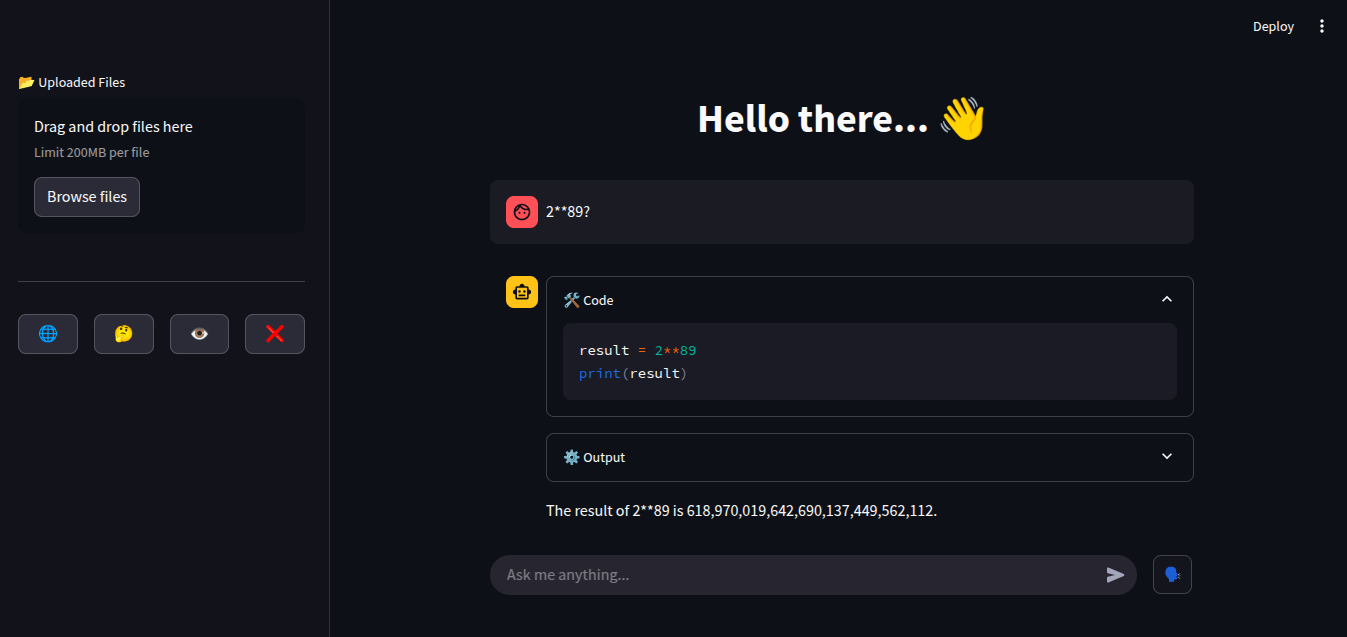
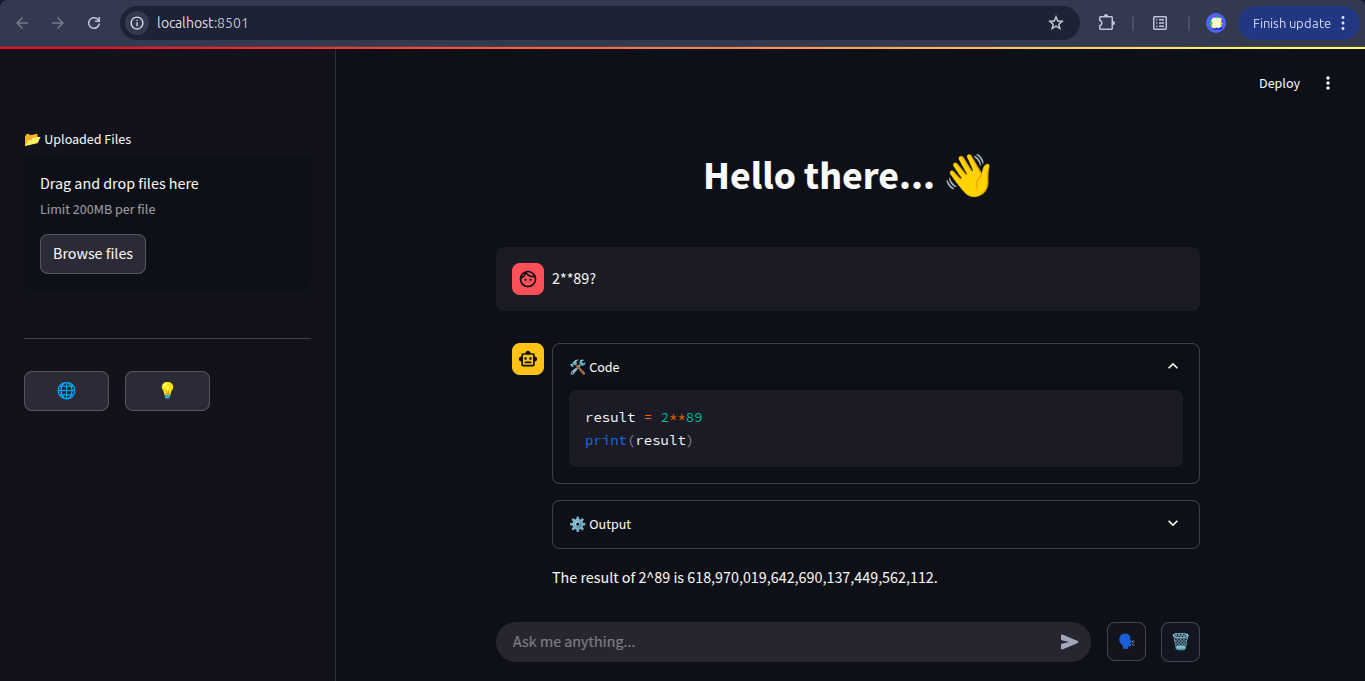
Add configurable system prompt and base tools

diff --git a/src/app.py b/src/app.py
@@ -3,11 +3,12 @@
 from llama_index.core.agent.workflow import ToolCallResult, AgentStream
 from llama_index.core.workflow import Context
 
-from multimodal import stt
 from demo_agent import DemoAgent
+from multimodal import stt
 
 from streamlit_mic_recorder import mic_recorder
 import streamlit as st
+
 import tempfile
 import asyncio
 import time
@@ -34,7 +35,7 @@ section[data-testid="stSidebar"] {
   text-align: center;
   font-size: 2.5em;
   font-weight: bold;
-  margin-bottom: 30px;
+  margin-bottom: 40px;
 }
 /* Fix chat container to properly display messages in correct order */
 [data-testid="stChatMessageContent"] {
@@ -97,7 +98,7 @@ with st.sidebar:
     # Action buttons below chat input
     with st.container():
         st.divider()
-        col1, col2, col3, col4 = st.columns(4)
+        col1, col2, col3 = st.columns(3)
 
         with col1:
             if st.button("🌐", help="Web-search mode", use_container_width=True):
@@ -106,23 +107,6 @@ with st.sidebar:
         with col2:
             if st.button("💡", help="Reasoning mode", use_container_width=True):
                 st.warning("WIP")
-
-        with col3:
-            if st.button("🔍", help="Vision mode", use_container_width=True):
-                st.warning("WIP")
-
-        with col4:
-            if st.session_state.get("messages"):
-                if st.button("🗑", help="Restart chat", use_container_width=True):
-                    # Generate a new unique key for the voice recorder widget and store it temporarily 
-                    st.session_state.voice_input_key += 1
-                    value_to_keep = st.session_state.get("voice_input_key") 
-
-                    # Clear everything in state memory, but restore important keys
-                    st.session_state.clear()
-                    if value_to_keep is not None: st.session_state["voice_input_key"] = value_to_keep
-
-                    st.rerun()
 
 # Display chat messages from session state in the chat container
 with chat_container:
@@ -145,7 +129,7 @@ with chat_container:
 
 # Put the input elements at the bottom
 with input_container:
-    col1, col2 = st.columns([93, 7])
+    col1, col2, col3 = st.columns([86, 7, 7])
     with col1:
         # Chat bar
         query = st.chat_input("Ask me anything...")
@@ -156,9 +140,21 @@ with input_container:
             start_prompt="🗣",
             stop_prompt="⏹",
             just_once=True,
-            use_container_width=False,
+            use_container_width=True,
             key=f"voice_input_{st.session_state.voice_input_key}"
         )
+    with col3:
+        if st.session_state.get("messages"):
+            if st.button("🗑", help="Restart chat", use_container_width=True):
+                # Generate a new unique key for the voice recorder widget and store it temporarily 
+                st.session_state.voice_input_key += 1
+                value_to_keep = st.session_state.get("voice_input_key") 
+
+                # Clear everything in state memory, but restore important keys
+                st.session_state.clear()
+                if value_to_keep is not None: st.session_state["voice_input_key"] = value_to_keep
+
+                st.rerun()
 
 # Process audio input if present
 if audio_data:

diff --git a/src/base_tools.py b/src/base_tools.py
@@ -1,0 +1,97 @@
+# base_tools.py
+
+from groq import Groq as GroqClient
+
+from dotenv import load_dotenv
+import os
+
+from pathlib import Path
+import mimetypes
+import base64
+
+load_dotenv()
+API_KEY = os.getenv("API_KEY")
+STT = os.getenv("STT")
+VLM = os.getenv("VLM")
+
+
+def transcribe_audio(path_to_audio: str) -> str:
+    """
+    Converts speech from an audio file into text.
+    Args:
+        path_to_audio (str): The path to the audio file to be transcribed.
+    Returns:
+        json: The transcribed text content of the audio file in JSON.
+    """
+    
+    # Validate path
+    path = Path(path_to_audio).expanduser().resolve()
+    if not path.is_file():
+        raise FileNotFoundError(f"No such audio file: {path}")
+
+    # Initialize the Groq client
+    client = GroqClient(api_key=API_KEY) 
+    
+    # Open the audio file
+    with open(path_to_audio, "rb") as audio_file:
+        # Create a transcription of the audio file
+        transcription = client.audio.transcriptions.create(
+            file=audio_file,
+            model=STT,
+            response_format="json",
+            temperature=0.1
+        )
+
+    return transcription
+
+def analyze_image(path_to_image: str, question: str) -> str:
+    """
+    Analyzes an image and generates a response to a given question based on the image's content.
+    
+    Args:
+        path_to_image (str): The path to the image file to be analyzed.
+        question (str): The question to be answered, based on the contents of the image.
+        
+    Returns:
+        str: The response from a VLM, typically a textual analysis or description based on the image.
+    """
+
+    # Validate path
+    path = Path(path_to_image).expanduser().resolve()
+    if not path.is_file():
+        raise FileNotFoundError(f"No such image file: {path}")
+
+    def encode_image(image_path):
+        with open(image_path, "rb") as image_file:
+            return base64.b64encode(image_file.read()).decode('utf-8')
+    
+    # Get the MIME type (e.g., image/png, image/jpeg)
+    mime_type, _ = mimetypes.guess_type(path_to_image)
+    if mime_type is None:
+        raise ValueError("Unsupported file type. Please provide a valid image.")
+
+    base64_image = encode_image(path_to_image)
+
+    # Initialize the Groq client
+    client = GroqClient(api_key=API_KEY)
+    
+    chat_completion = client.chat.completions.create(
+        messages=[
+            {
+                "role": "user",
+                "content": [
+                    {"type": "text", "text": question},
+                    {
+                        "type": "image_url",
+                        "image_url": {
+                            "url": f"data:{mime_type};base64,{base64_image}",
+                        },
+                    },
+                ],
+            }
+        ],
+        model=VLM,
+    )
+    
+    analysis = chat_completion.choices[0].message.content
+    return analysis.strip()

diff --git a/src/demo_agent.py b/src/demo_agent.py
@@ -1,7 +1,9 @@
-# demo_agents.py
+# demo_agent.py
 
 from llama_index.core.agent.workflow import CodeActAgent
 from llama_index.llms.groq import Groq as LlamaGroq
+
+from base_tools import transcribe_audio, analyze_image
 from code_executor import SimpleCodeExecutor
 
 import matplotlib.pyplot as plt
@@ -11,24 +13,31 @@ import datetime
 import re
 
 from dotenv import load_dotenv
+from pathlib import Path
 import os
 
 load_dotenv()
-ROOT_MODEL = os.getenv("ROOT_MODEL")
+SYSTEM_PROMPT_KEY = os.getenv("SYSTEM_PROMPT_KEY")
 API_KEY = os.getenv("API_KEY")
+LLM = os.getenv("LLM")
 
+# LLM
 llm = LlamaGroq(
-    model=ROOT_MODEL,
     api_key=API_KEY,
+    model=LLM,
+    presence_penalty=0.5,
     temperature=0.25,
     top_p=0.9,
-    min_p=0,
     top_k=20,
-    presence_penalty=0.5
+    min_p=0,
     )
-  
+
+# Code executor
 code_executor = SimpleCodeExecutor(
-    locals={},
+    locals={
+    "transcribe_audio": transcribe_audio,
+    "analyze_image": analyze_image
+    },
     globals={
     "__builtins__": __builtins__,
     "datetime": __import__("datetime"),
@@ -39,18 +48,23 @@ code_executor = SimpleCodeExecutor(
     },
     )
 
+# System prompt
+current_dir = Path(__file__).parent
+file_path = current_dir.parent / "prompts" / (SYSTEM_PROMPT_KEY+".txt")
+
+with open(file_path, "r") as file: content = file.read()
+system_prompt = eval(f"f'''{content}'''")
+
+## Agent Workflow ##
 class DemoAgent():
     def __init__(self):
         self._agent = CodeActAgent(
             llm=llm,
-            code_execute_fn=code_executor.execute
-            #fn=...
+            code_execute_fn=code_executor.execute,
+            tools=[transcribe_audio, analyze_image]
             )
 
-        # Default system prompt (for llama models)
-        self.system_prompt = f"""
-        Cutting Knowledge Date: December 2023
-        Today Date: {datetime.datetime.today().strftime("%d %B %Y")}"""
+        self.system_prompt = system_prompt
 
         self.additional_instructions = ""
 

diff --git a/src/multimodal.py b/src/multimodal.py
@@ -1,23 +1,16 @@
 # multimodal.py
 
 from groq import Groq as GroqClient
+
 from dotenv import load_dotenv
 import os
 
 load_dotenv()
-STT_MODEL = os.getenv("STT_MODEL")
 API_KEY = os.getenv("API_KEY")
+STT = os.getenv("STT")
 
 def stt(audio_file) -> str:
-    """
-    Converts speech from an audio file into text.
-    Args:
-        path_to_audio (str): The path to the audio file to be transcribed.
-    Returns:
-        str: The transcribed text content of the audio file.
-    """
-    
-    # TODO: Validate audio file
+    """Converts speech from an audio file into text."""
 
 	# Initialize the Groq client
     client = GroqClient(api_key=API_KEY)
@@ -25,10 +18,11 @@ def stt(audio_file) -> str:
     # Create a transcription of the audio file
     transcription = client.audio.transcriptions.create(
         file=audio_file,
-        model=STT_MODEL,
-        response_format="text", # Returns plain text instead of JSON
-        language="en",
+        model=STT,
+        response_format="text",
         temperature=0.1
     )
 
     return transcription.strip()
+
+# TODO: def tts(message: str):

diff --git a/src/custom_tools.py b/src/custom_tools.py
@@ -1,0 +1,1 @@
+# custom_tools.py

diff --git a/README.md b/README.md
@@ -2,6 +2,7 @@
 This repository presents a multimodal, interactive AI assistant powered by a `CodeActAgent` class from [LlamaIndex](https://github.com/jerryjliu/llama_index) and [GroqCloud](https://console.groq.com/home) LLMs. It allows users to interact with an agent capable of executing Python code, handling file uploads, and transcribing voice input.
 
 The UI is built with [Streamlit](https://streamlit.io/), enabling seamless interaction with the agent:
+
 ![UI](images/preview.png)
 
 ## Features
@@ -40,8 +41,8 @@ pip install -r requirements.txt
 4. Create a `.env` file with the following contents:
 ```env
 API_KEY=your_groq_api_key
-ROOT_MODEL=llama3-8b-8192
-STT_MODEL=whisper-large
+ROOT_MODEL=your_groq_llm_of_choice
+STT_MODEL=your_groq_stt_of_choice
 ```
 
 ### Running the Application
@@ -55,9 +56,9 @@ This will launch the web interface in your default browser, allowing you to inte
 ```text
 src/
 ├── app.py              # Main Streamlit app
-├── demo_agent.py       # CodeActAgent integration with Groq and LlamaIndex
+├── demo_agent.py       # CodeActAgent integration with GroqCloud and LlamaIndex
 ├── code_executor.py    # Stateful code execution logic
-├── multimodal.py       # Voice-to-text transcription via Groq Whisper
+├── multimodal.py       # Voice-to-text transcription via GroqCloud Whisper
 ```
 
 ## Usage
